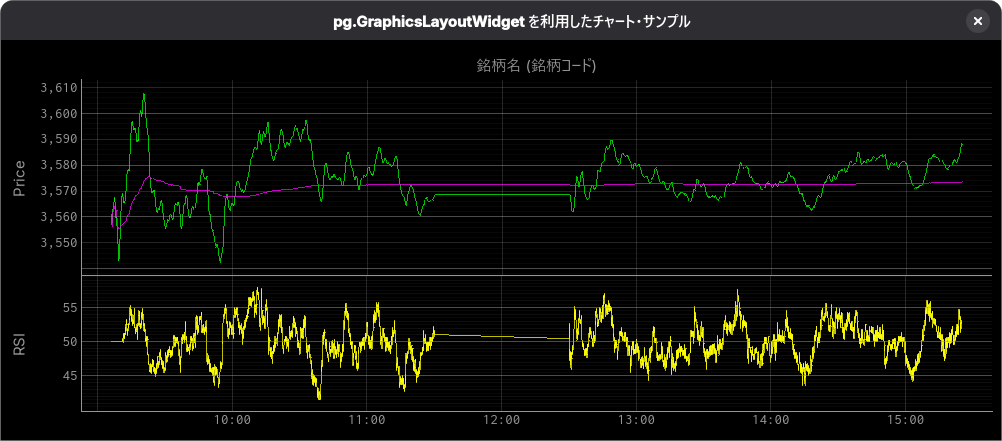
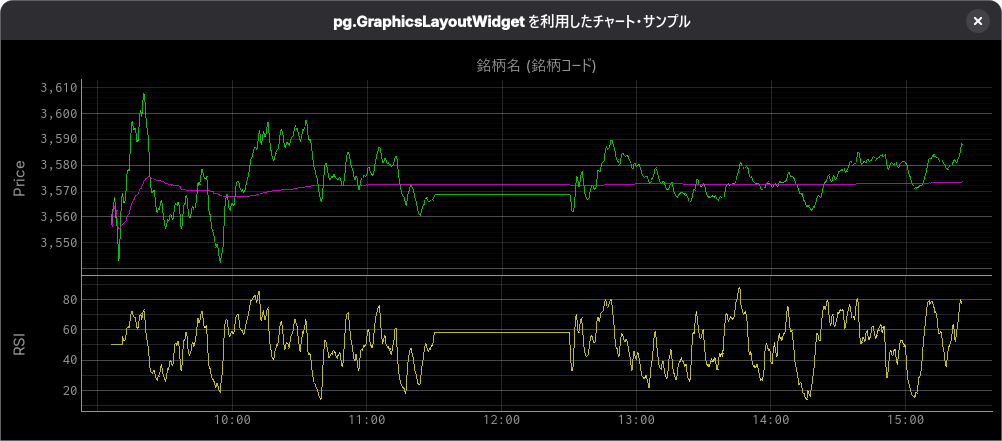
update

Changed region(s): [[0.0619, 0.6485, 0.99, 0.9138], [0.8972, 0.8844, 0.9281, 0.9138], [0.8044, 0.8844, 0.8353, 0.9138]]

diff --git a/snippet/sample_graphics_layout_widget.py b/snippet/sample_graphics_layout_widget.py
@@ -5,6 +5,8 @@ from PySide6.QtWidgets import QApplication, QMainWindow, QVBoxLayout, QWidget
 import pyqtgraph as pg
 import sys
 
+from modules.technical import RSI
+
 
 class CustomYAxisItem1(pg.AxisItem):
     def tickStrings(self, values: list[float], scale: float, spacing: float) -> list[str]:
@@ -77,11 +79,11 @@ class TrendCharts(pg.GraphicsLayoutWidget):
             # 高速化オプション
             plot_item.setClipToView(True)
 
-    def update_data(self, times: list, ma_1: list, vwap, rsi: list):
+    def update_data(self, list_ts: list, list_ma_1: list, list_vwap, list_rsi: list):
         """データ更新"""
-        self.curve_ma_1.setData(times, ma_1)
-        self.curve_vwap.setData(times, vwap)
-        self.curve_rsi.setData(times, rsi)
+        self.curve_ma_1.setData(list_ts, list_ma_1)
+        self.curve_vwap.setData(list_ts, list_vwap)
+        self.curve_rsi.setData(list_ts, list_rsi)
 
     def setTrendTitle(self, title: str) -> None:
         self.plot_price.setTitle(title)
@@ -93,10 +95,11 @@ class SampleCharts(QMainWindow):
         # サンプル・データ
         file_csv = "sample_rsi.zip"
         df = pd.read_csv(file_csv, index_col=0)
-        ts = list(df["ts"])
-        ma1 = list(df["ma1"])
-        vwap = list(df["vwap"])
-        rsi = list(df["rsi"])
+        list_ts = list(df["ts"])
+        list_ma_1 = list(df["ma1"])
+        list_vwap = list(df["vwap"])
+        obj_rsi = RSI(150)
+        list_rsi = [obj_rsi.update(v) for v in list_ma_1]
 
         self.setWindowTitle("pg.GraphicsLayoutWidget を利用したチャート・サンプル")
         base = QWidget()
@@ -109,7 +112,7 @@ class SampleCharts(QMainWindow):
         self.trends = trends = TrendCharts()
         trends.setTrendTitle("銘柄名 (銘柄コード)")
         layout.addWidget(trends)
-        trends.update_data(ts, ma1, vwap, rsi)
+        trends.update_data(list_ts, list_ma_1, list_vwap, list_rsi)
 
 
 def main() -> None:
